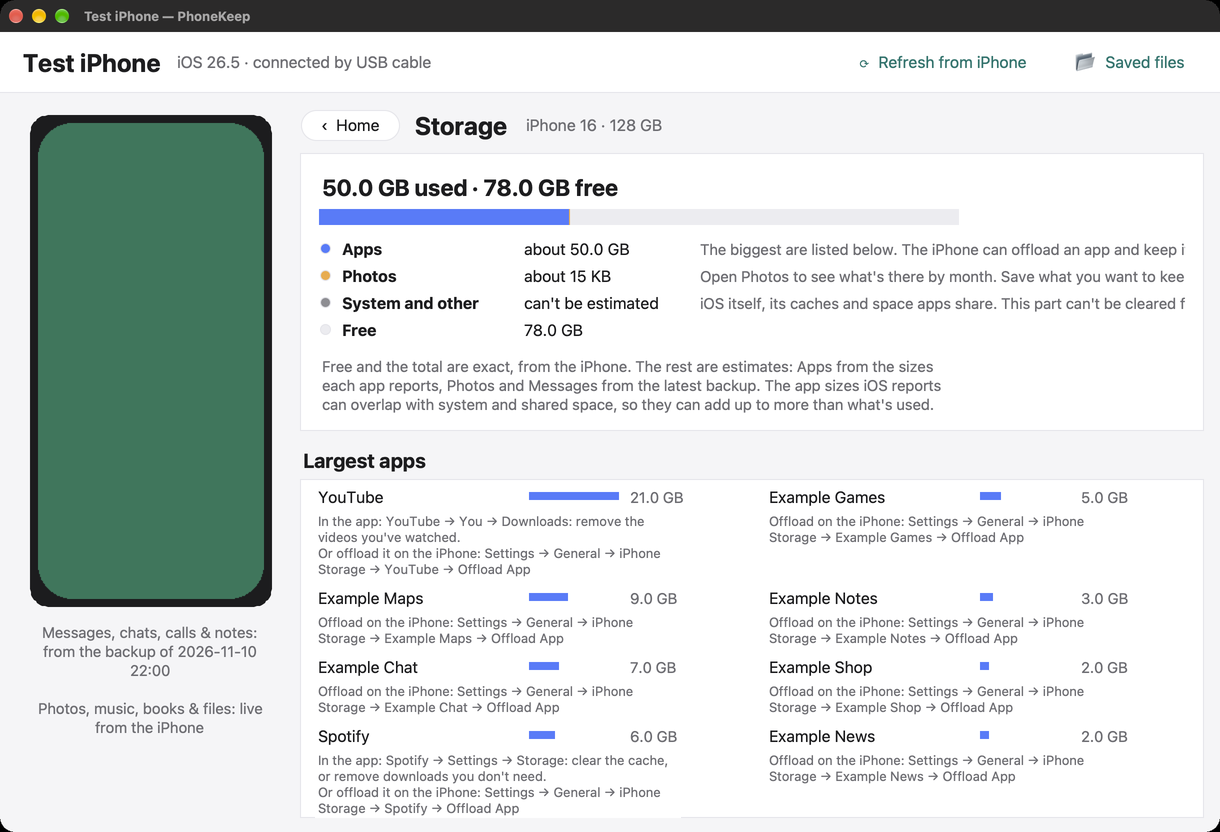
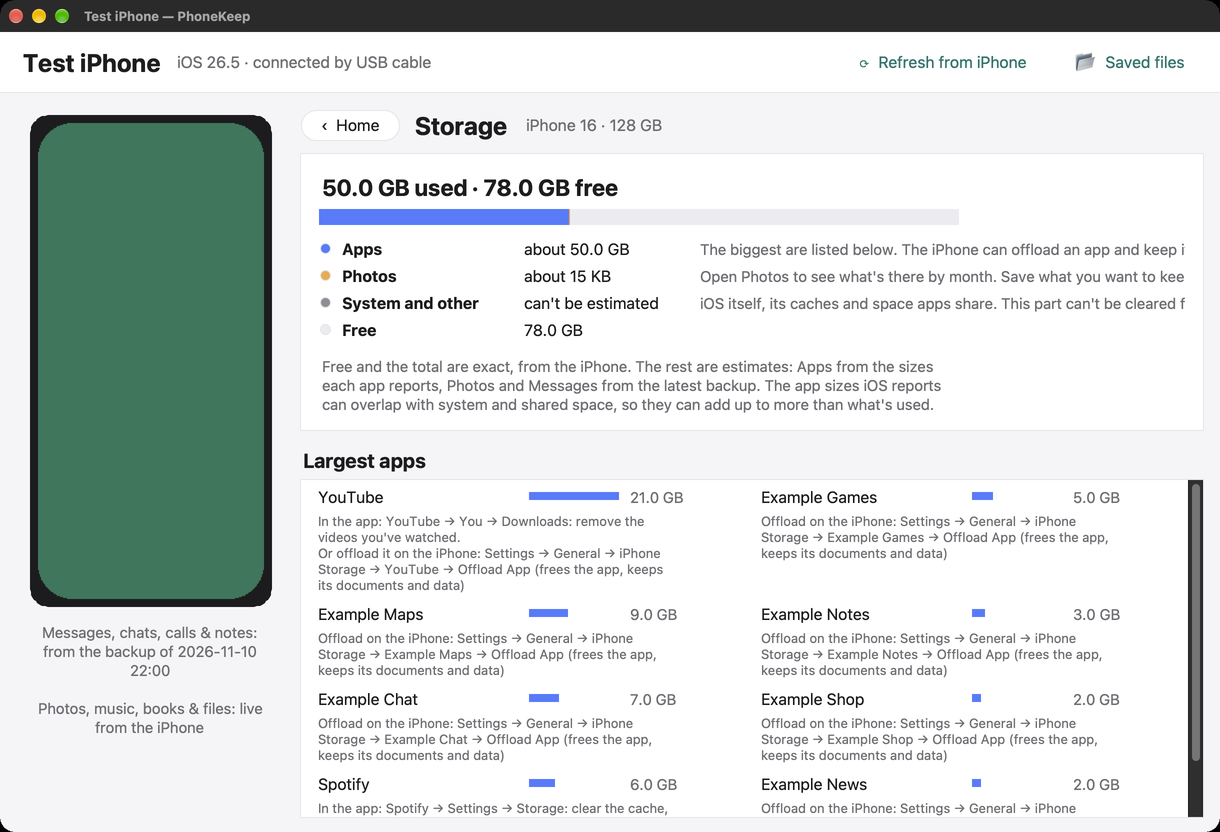
V6: the apps list scrolls so all 20 can be reached; the offload line says what it keeps (reviewer round 1 on #64)
- With a tip under each app, 12 of the 20 were off-screen. The Largest apps list now scrolls on its own, under the
  storage figures. Test: in the window's normal size every one of the 20 can be scrolled into view (4 of 20 before).
- 'Offload App (frees the app, keeps its documents and data)': offloading frees little for apps full of data.
- Spec: first Done-when ticked with the test as evidence. New screenshot (invented apps).

diff --git a/tests/test_storage_tips.py b/tests/test_storage_tips.py
@@ -24,17 +24,19 @@ G = 1000 ** 3
 
 # -- the lines ------------------------------------------------------------------------------------------------------
 plain = sa.app_tip("com.example.notes", "Example Notes")
-check(plain == ["Offload on the iPhone: Settings → General → iPhone Storage → Example Notes → Offload App"],  # noqa: F821
-      f"an app with no known in-app way: offload on the iPhone ({plain[0]})")
+check(plain == ["Offload on the iPhone: Settings → General → iPhone Storage → Example Notes → Offload App "
+                "(frees the app, keeps its documents and data)"],                          # noqa: F821
+      f"an app with no known in-app way: offload on the iPhone, saying what it keeps ({plain[0]})")
 yt = sa.app_tip("com.google.ios.youtube", "YouTube")
 check(len(yt) == 2 and yt[0].startswith("In the app: YouTube → You → Downloads")                          # noqa: F821
-      and yt[1] == "Or offload it on the iPhone: Settings → General → iPhone Storage → YouTube → Offload App",
+      and yt[1] == ("Or offload it on the iPhone: Settings → General → iPhone Storage → YouTube → Offload App "
+                    "(frees the app, keeps its documents and data)"),
       "a common big app: its own way first (YouTube's downloads), then offloading")
 for bundle in ("com.tencent.xin", "com.spotify.client"):
     t = sa.app_tip(bundle, "X")
     check(len(t) == 2 and "Storage" in t[0], f"  {bundle}: its storage setting")                           # noqa: F821
 check(all(" → " in v and v.endswith(".") for v in sa.IN_APP.values()), "every in-app way is written as steps")  # noqa: F821
-check(sa.app_tip("com.example.x", "")[0].endswith("iPhone Storage → the app → Offload App"),                # noqa: F821
+check("iPhone Storage → the app → Offload App" in sa.app_tip("com.example.x", "")[0],                # noqa: F821
       "an app without a name still gets a readable line")
 
 # -- the Storage screen -----------------------------------------------------------------------------------------------
@@ -82,6 +84,32 @@ def texts(w):
         texts(c)
 texts(win.content)
 check(sum(1 for t in labels if "Offload" in str(t)) == 20, "  and they're on the screen")                  # noqa: F821
+# every one of the 20 can be reached in the window's normal size: the list scrolls, under the storage figures
+win.geometry("1220x800")
+app.update()
+overview_ui.storage_view(win, win.overview)
+app.update()
+cv = getattr(win, "apps_canvas", None)        # the list's own scrolling area, when there is one
+
+
+def shown(cell):
+    """True when the whole of this app's cell is on screen: inside the window's content area and, if the list
+    scrolls, inside its visible part."""
+    for box in [win.content] + ([cv] if cv is not None else []):
+        y0 = cell.winfo_rooty() - box.winfo_rooty()
+        if y0 < 0 or y0 + cell.winfo_height() > box.winfo_height():
+            return False
+    return True
+
+
+seen = set()
+for k in range(0, 101, 5):
+    if cv is not None:
+        cv.yview_moveto(k / 100)
+    app.update()
+    seen |= {i for i, c in enumerate(win.app_cells) if shown(c)}
+check(seen == set(range(20)), f"in the window's normal size every one of the 20 apps with its line can be seen "
+      f"(scrolling the list): {len(seen)} of 20")                                         # noqa: F821
 check(asked["n"] == before, "showing the tips asks the phone nothing")                                      # noqa: F821
 import device as real_device
 check(not any(hasattr(real_device.LiveDevice, m) for m in ("offload_app", "uninstall", "remove_app", "delete_app")),  # noqa: F821

diff --git a/overview_ui.py b/overview_ui.py
@@ -4,7 +4,7 @@ from __future__ import annotations
 
 import tkinter as tk
 from pathlib import Path
-from tkinter import filedialog
+from tkinter import filedialog, ttk
 from typing import Optional
 
 import deviceinfo as di
@@ -258,15 +258,29 @@ def storage_view(win, ov: di.Overview):
         win.apps_note = tk.Label(head, text=note, bg=BG, fg=MUTED, font=font(11), anchor="w")
         win.apps_note.pack(side="left", padx=(10, 0))
     if apps:
-        lst = tk.Frame(win.content, bg=CARD, highlightthickness=1, highlightbackground=LINE)
-        lst.pack(fill="x")
+        # V6: with a "how to free space" line under each app the list is taller than the window: it scrolls on its
+        # own, under the storage figures, so every one of the 20 can be reached
+        box = tk.Frame(win.content, bg=CARD, highlightthickness=1, highlightbackground=LINE)
+        box.pack(fill="both", expand=True)
+        canvas = tk.Canvas(box, bg=CARD, highlightthickness=0)
+        sb = ttk.Scrollbar(box, orient="vertical", command=canvas.yview)
+        lst = tk.Frame(canvas, bg=CARD)
+        lst.bind("<Configure>", lambda e: canvas.configure(scrollregion=canvas.bbox("all")))
+        inner_id = canvas.create_window(0, 0, window=lst, anchor="nw")
+        canvas.bind("<Configure>", lambda e: canvas.itemconfigure(inner_id, width=e.width))
+        canvas.configure(yscrollcommand=sb.set)
+        canvas.pack(side="left", fill="both", expand=True)
+        sb.pack(side="right", fill="y")
+        ui.wheel_scroll(canvas)
+        win.apps_canvas = canvas
         top = apps[0].total or 1
         win.app_rows = []
         lst.columnconfigure((0, 1), weight=1, uniform="apps")
-        half = (len(apps) + 1) // 2                     # two columns of ten, so all 20 fit without scrolling
-        win.app_tips = []
+        half = (len(apps) + 1) // 2                     # two columns of ten
+        win.app_tips, win.app_cells = [], []
         for i, a in enumerate(apps):
             cell = tk.Frame(lst, bg=CARD)
+            win.app_cells.append(cell)
             cell.grid(row=i % half, column=i // half, sticky="nw", padx=14, pady=(4, 2))
             r = tk.Frame(cell, bg=CARD)
             r.pack(anchor="w")

diff --git a/storage_advice.py b/storage_advice.py
@@ -61,8 +61,10 @@ IN_APP = {
 
 def app_tip(bundle: str, name: str) -> list[str]:
     """How to free the space this app takes, as one or two lines: the app's own way first (for common big apps),
-    then offloading it on the iPhone, which keeps its documents and data."""
-    offload = f"Settings → General → iPhone Storage → {name or 'the app'} → Offload App"
+    then offloading it on the iPhone. Offloading frees the app itself and keeps its documents and data, so the line
+    says so: for an app full of chats or downloads it frees little."""
+    offload = (f"Settings → General → iPhone Storage → {name or 'the app'} → Offload App "
+               "(frees the app, keeps its documents and data)")
     if bundle in IN_APP:
         return [f"In the app: {IN_APP[bundle]}", f"Or offload it on the iPhone: {offload}"]
     return [f"Offload on the iPhone: {offload}"]

diff --git a/docs/spec/10-device.md b/docs/spec/10-device.md
@@ -39,7 +39,7 @@ Clean-up suggestions and the storage forecast: H2 in [13-phone-health.md](13-pho
 - Showing the tips asks the phone nothing more than the app list already does.
 
 **Done when**
-- [ ] Every one of the 20 largest apps shows its line; the common big apps show their in-app way first.
+- [x] Every one of the 20 largest apps shows its line; the common big apps show their in-app way first. *(15 Nov, `tests/test_storage_tips.py`: all 20 can be scrolled into view in the window's normal size.)*
 - [ ] The steps match the phone and the apps (checked on a real iPhone for the default line and the apps installed there).
 
 ## V4. Move to a new iPhone
